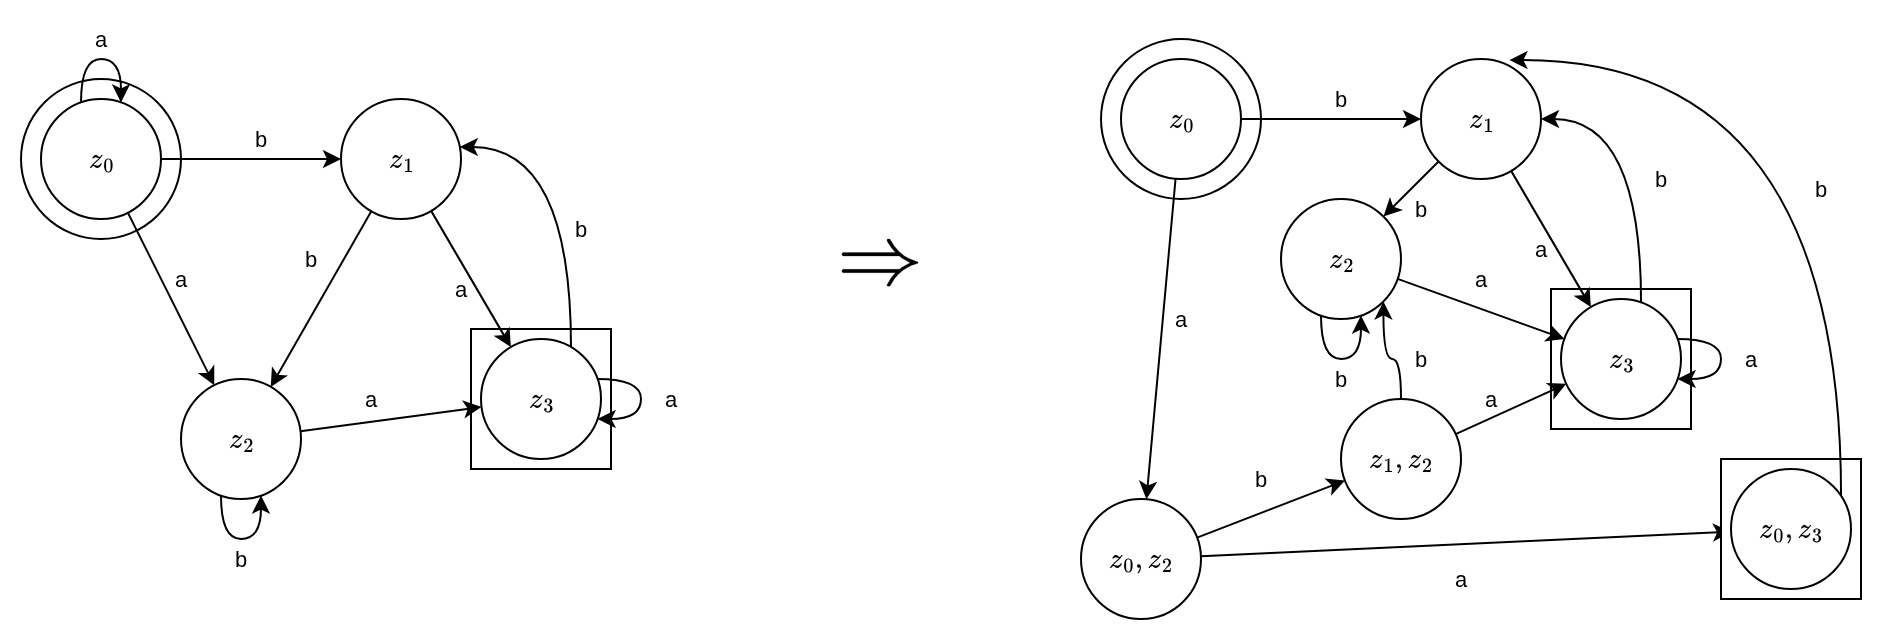
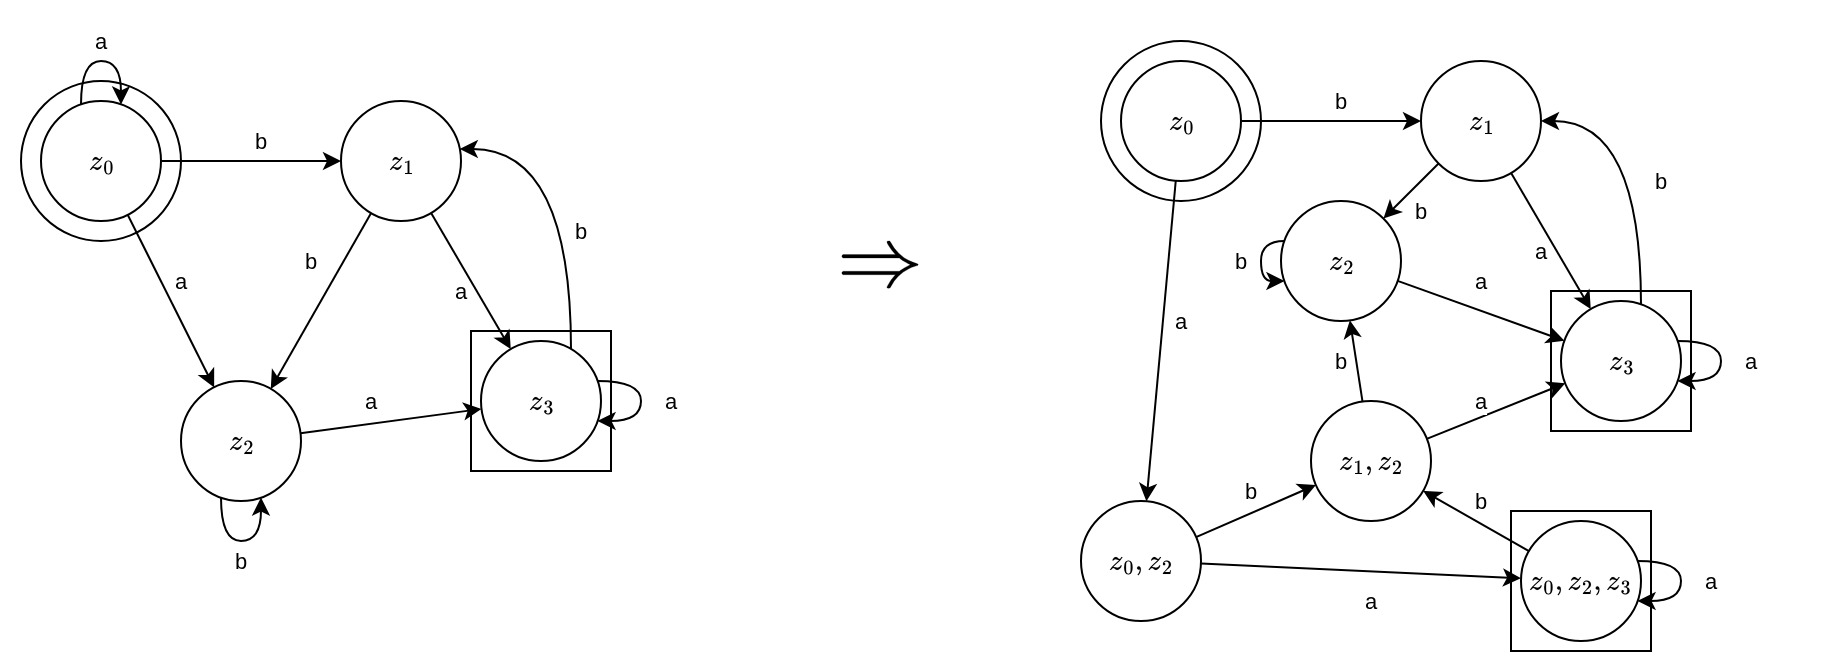
bla

diff --git a/index.html b/index.html
@@ -4564,7 +4564,7 @@ Lösung:
 </div>
 </div>
 </div>
-<section id="datentypen" class="level3">
+<section id="datentypen" class="level3 sek">
 <h3 class="anchored" data-anchor-id="datentypen">Datentypen</h3>
 <p>Da wir uns innerhalb der Klasse <span class="math inline">\(\textbf{FUNK}(ℕ)\)</span> befinden, können wir nur Funktionen <span class="math inline">\(f: ℕ^n → ℕ\)</span> berechnen. Höhere Datentypen lassen sich jedoch in Polynomialzeit kodieren:</p>
 <ul>
@@ -4591,11 +4591,12 @@ Lösung:
 <center>
 <p><img src="./img/cantor_pairing_function.png" class="img-fluid"></p>
 </center>
-<p>Zusammengesetzte Typen wie <code>Person</code> (mit Feldern <code>String</code>, <code>Integer</code>, <code>Bool</code>) werden als <span class="math inline">\(ℕ^5\)</span> dargestellt und nach Kantor kodiert. Nach dem Induktionsprinzip gilt:</p>
+<p>Zusammengesetzte Typen wie <code>Person</code> (mit Feldern <code>String</code>, <code>Integer</code>, <code>Bool</code>) werden als <span class="math inline">\(ℕ^5\)</span> dargestellt und nach Kantor kodiert.</p>
+</section>
+<p>Nach dem Induktionsprinzip gilt:</p>
 <div class="prop">
 <p>Jedes Tupel abzählbarer Mengen und jeder zusammengesetzte Datentyp ist in Polynomialzeit in eine natürliche Zahl kodierbar und wieder dekodierbar.</p>
 </div>
-</section>
 </section>
 <section id="die-klasse-textbfnp" class="level2">
 <h2 class="anchored" data-anchor-id="die-klasse-textbfnp">Die Klasse <span class="math inline">\(\textbf{NP}\)</span></h2>
@@ -5670,7 +5671,7 @@ Lösung:
 </div>
 </div>
 </div>
-<section id="regex-nicht-prüfungsrelevant" class="level3">
+<section id="regex-nicht-prüfungsrelevant" class="level3 sek">
 <h3 class="anchored" data-anchor-id="regex-nicht-prüfungsrelevant">Regex (nicht Prüfungsrelevant)</h3>
 <p>Statt eines Automaten können wir auch reguläre Ausdrücke verwenden, um Sprachen zu beschreiben. Ein regulärer Ausdruck ist eine Zeichenkette, die ein Muster beschreibt, das von einer Sprache akzeptiert wird.Dafür gibt es verschiedene Operatoren, die in Regex verwendet werden können:</p>
 <ul>
@@ -5695,6 +5696,7 @@ Lösung:
 <li>Lookahead/Lookbehind mit variablen Langen, z.B. <code>(?=...)</code> und <code>(?&lt;=...)</code></li>
 <li>Referenzen, z.B. <code>\1</code>, <code>\2</code>, etc.</li>
 </ul>
+</section>
 <div class="prop">
 <p><strong>Lemma 5.3.2</strong></p>
 <p>Seien <span class="math inline">\(B, C ⊆ Σ^*\)</span>.</p>
@@ -5706,7 +5708,6 @@ Lösung:
 \textbf{REG} = \textbf{DEA} = \mathcal{L}_3
 \]</span></p>
 </div>
-</section>
 <section id="pumpinglemma-für-reguläre-sprachen" class="level3 prop">
 <h3 class="anchored" data-anchor-id="pumpinglemma-für-reguläre-sprachen">Pumpinglemma für reguläre Sprachen:</h3>
 <p>Für alle <span class="math inline">\(L ∈ \mathcal{L}_3\)</span> gilt:</p>